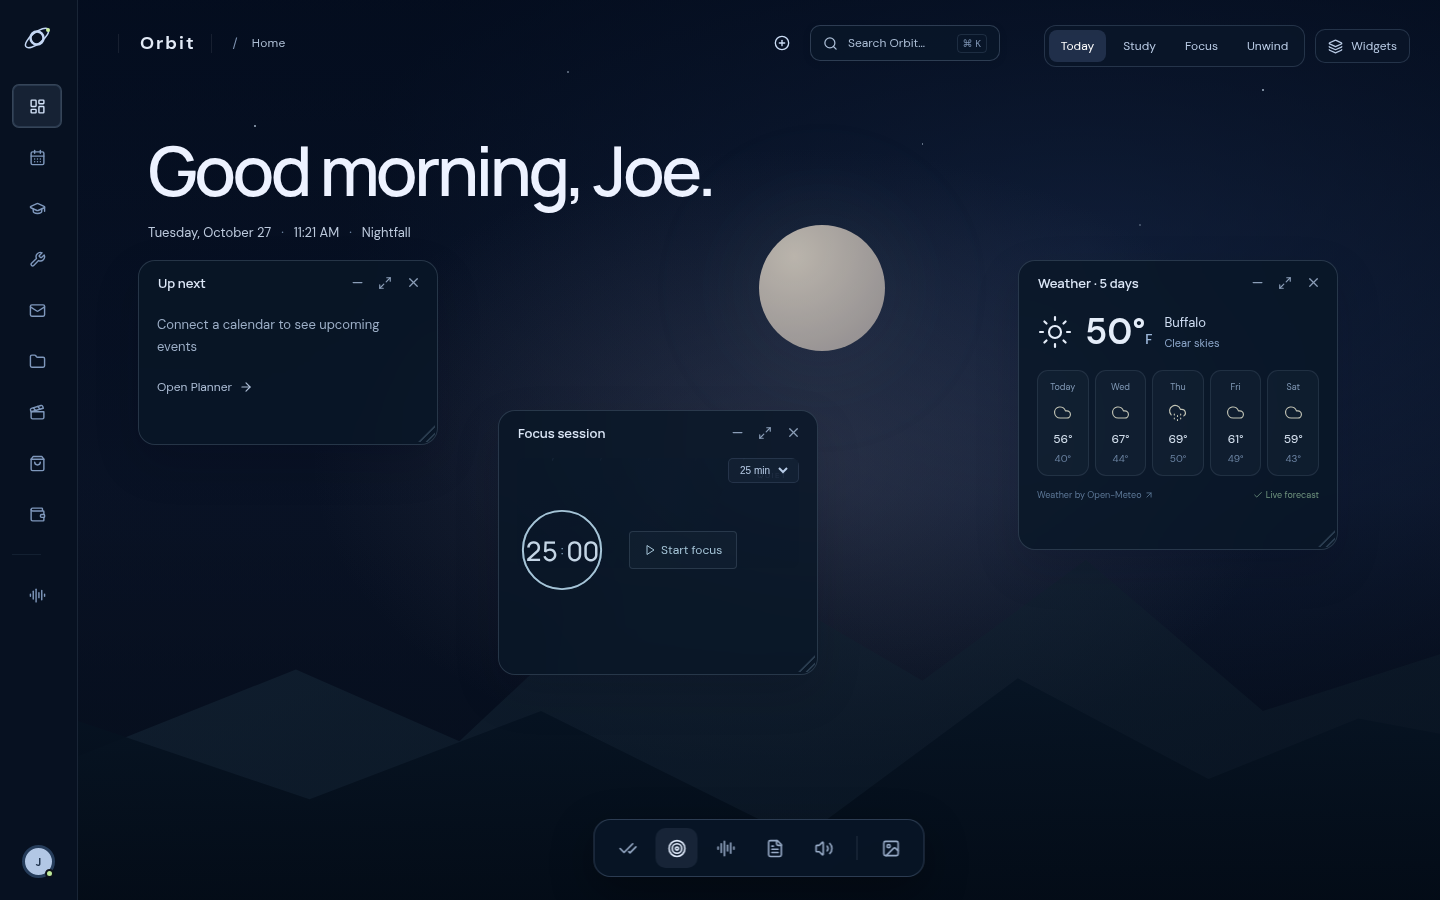
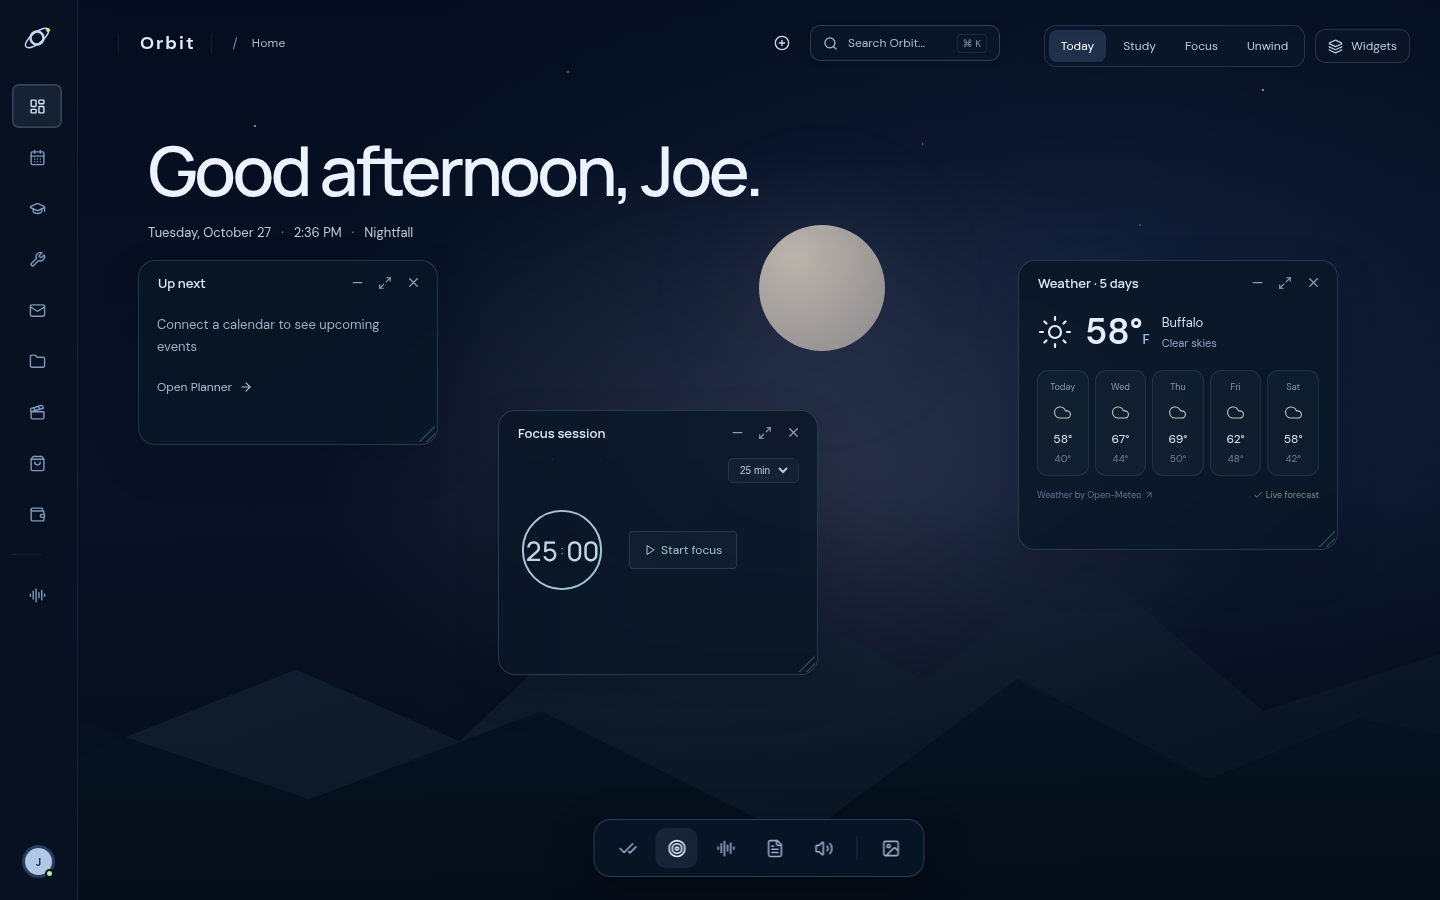
Recover Shopping storage failures and prepare Orbit 4.6 validation

Changed region(s): [[0.2188, 0.1556, 0.5312, 0.2489], [0.75, 0.3422, 0.8438, 0.4044], [0.1875, 0.2489, 0.2812, 0.28]]

diff --git a/src/ShoppingScout.tsx b/src/ShoppingScout.tsx
@@ -128,12 +128,29 @@ export default function ShoppingScout() {
     offers: Offer[];
   } | null>(null);
   const requestVersion = useRef(0);
+  const [storageError, setStorageError] = useState("");
+  const persistedSearches = useRef(saved);
+  const persistedOffers = useRef(savedOffers);
+  const persist = () => {
+    try {
+      if (persistedSearches.current !== saved) {
+        if (!writeLocal(searchesKey, saved)) throw new Error("searches");
+        persistedSearches.current = saved;
+      }
+      if (persistedOffers.current !== savedOffers) {
+        if (!writeLocal(offersKey, savedOffers)) throw new Error("comparisons");
+        persistedOffers.current = savedOffers;
+      }
+      setStorageError("");
+    } catch {
+      setStorageError(
+        "Shopping changes could not be saved. Keep this tab open and retry after making browser storage available.",
+      );
+    }
+  };
   useEffect(() => {
-    writeLocal(searchesKey, saved);
-  }, [saved]);
-  useEffect(() => {
-    writeLocal(offersKey, savedOffers);
-  }, [savedOffers]);
+    persist();
+  }, [saved, savedOffers]);
   const clean = query.trim().slice(0, 120);
   const loadLive = async (term: string) => {
     const version = ++requestVersion.current;
@@ -468,6 +485,12 @@ export default function ShoppingScout() {
           </small>
         )}
       </section>
+      {storageError && (
+        <div className="module-notice" role="alert">
+          {storageError}
+          <button onClick={persist}>Retry saving shopping</button>
+        </div>
+      )}
       <form onSubmit={addSearch} className="shopping-search">
         <Search size={18} />
         <input

diff --git a/src/scene-home.css b/src/scene-home.css
@@ -863,3 +863,13 @@
 .scene-home .forecast-detail {
   flex: 0 0 auto;
 }
+/* Match the labeled Home search field in the other workspace sections. */
+.app-shell:not(.scene-home-shell) .global-search {
+  border: 1px solid #89acd437;
+  border-radius: 9px;
+  padding: 8px 11px;
+  background: #101e32;
+}
+.oi-window[data-widget-id="focus"] .focus-heading > span {
+  display: none;
+}

diff --git a/src/FinancePanel.tsx b/src/FinancePanel.tsx
@@ -153,7 +153,7 @@ export default function FinancePanel() {
           onChange={(e) => setMonth(e.target.value)}
         />
         <select
-          aria-label="Filter finance type"
+          aria-label="Ledger entry filter"
           value={type}
           onChange={(e) => setType(e.target.value)}
         >

diff --git a/src/modules.css b/src/modules.css
@@ -771,4 +771,10 @@
     transition-duration: 0.01ms !important;
   }
 }
-.module-filters input[type="checkbox"] { flex: none; width: 16px; height: 16px; padding: 0; appearance: auto; }
+.module-filters input[type="checkbox"] {
+  flex: none;
+  width: 16px;
+  height: 16px;
+  padding: 0;
+  appearance: auto;
+}
